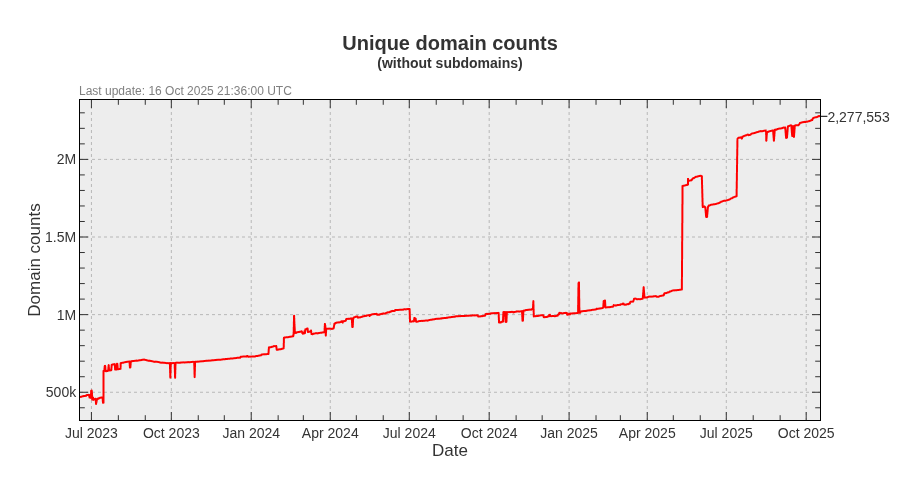
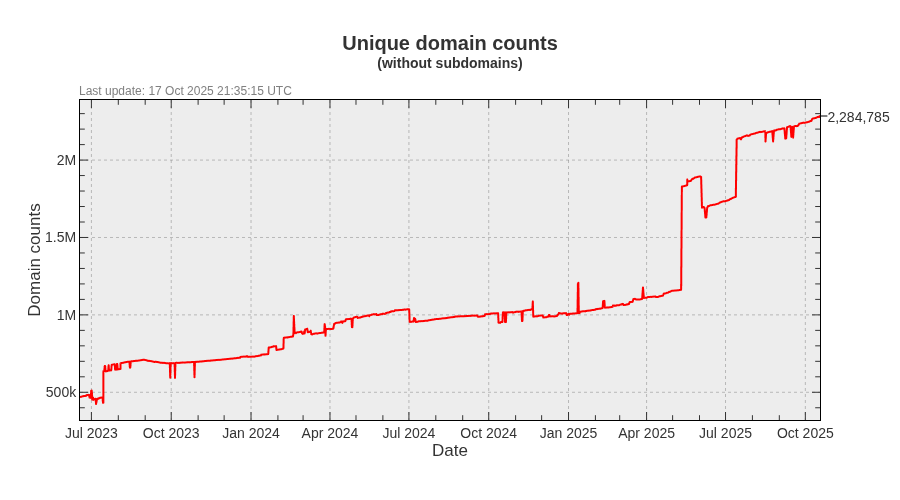
Update pages

diff --git a/README.md b/README.md
@@ -3,22 +3,22 @@ A blocklist file for blocking ads, trackers and malware domains.
 
[1 lines of base64/hex data omitted]
 
-- Unique domains: 2,963,363
-- Without subdomains: 2,277,553
-- Last update: 16 Oct 2025 21:36:00 UTC
-- Version: 2025.10.16.01
+- Unique domains: 2,978,178
+- Without subdomains: 2,284,785
+- Last update: 17 Oct 2025 21:35:15 UTC
+- Version: 2025.10.17.01
 
 
 ### Downloads:
 
 | Format             | Domain count      | Download Link |
 |:------------------ | -----------------:|:-------------:|
-| *Adblock Plus*     | 2,277,553 | [Download](https://dl.cenk.app/bad-hosts/bad-hosts-abp) |
-| *Wildcard domains* | 2,277,553 | [Download](https://dl.cenk.app/bad-hosts/bad-hosts-wildcard) |
-| *dnsmasq*          | 2,277,553 | [Download](https://dl.cenk.app/bad-hosts/bad-hosts-dnsmasq) |
-| *hosts*            | 2,963,363 | [Download](https://dl.cenk.app/bad-hosts/hosts) |
-| *hosts (ipv6)*     | 2,963,363 | [Download](https://dl.cenk.app/bad-hosts/hosts-ipv6) |
-| *Plain domains*    | 2,963,363 | [Download](https://dl.cenk.app/bad-hosts/bad-hosts-domains) |
+| *Adblock Plus*     | 2,284,785 | [Download](https://dl.cenk.app/bad-hosts/bad-hosts-abp) |
+| *Wildcard domains* | 2,284,785 | [Download](https://dl.cenk.app/bad-hosts/bad-hosts-wildcard) |
+| *dnsmasq*          | 2,284,785 | [Download](https://dl.cenk.app/bad-hosts/bad-hosts-dnsmasq) |
+| *hosts*            | 2,978,178 | [Download](https://dl.cenk.app/bad-hosts/hosts) |
+| *hosts (ipv6)*     | 2,978,178 | [Download](https://dl.cenk.app/bad-hosts/hosts-ipv6) |
+| *Plain domains*    | 2,978,178 | [Download](https://dl.cenk.app/bad-hosts/bad-hosts-domains) |
 
 ### Domain count history
 #### With subdomains
